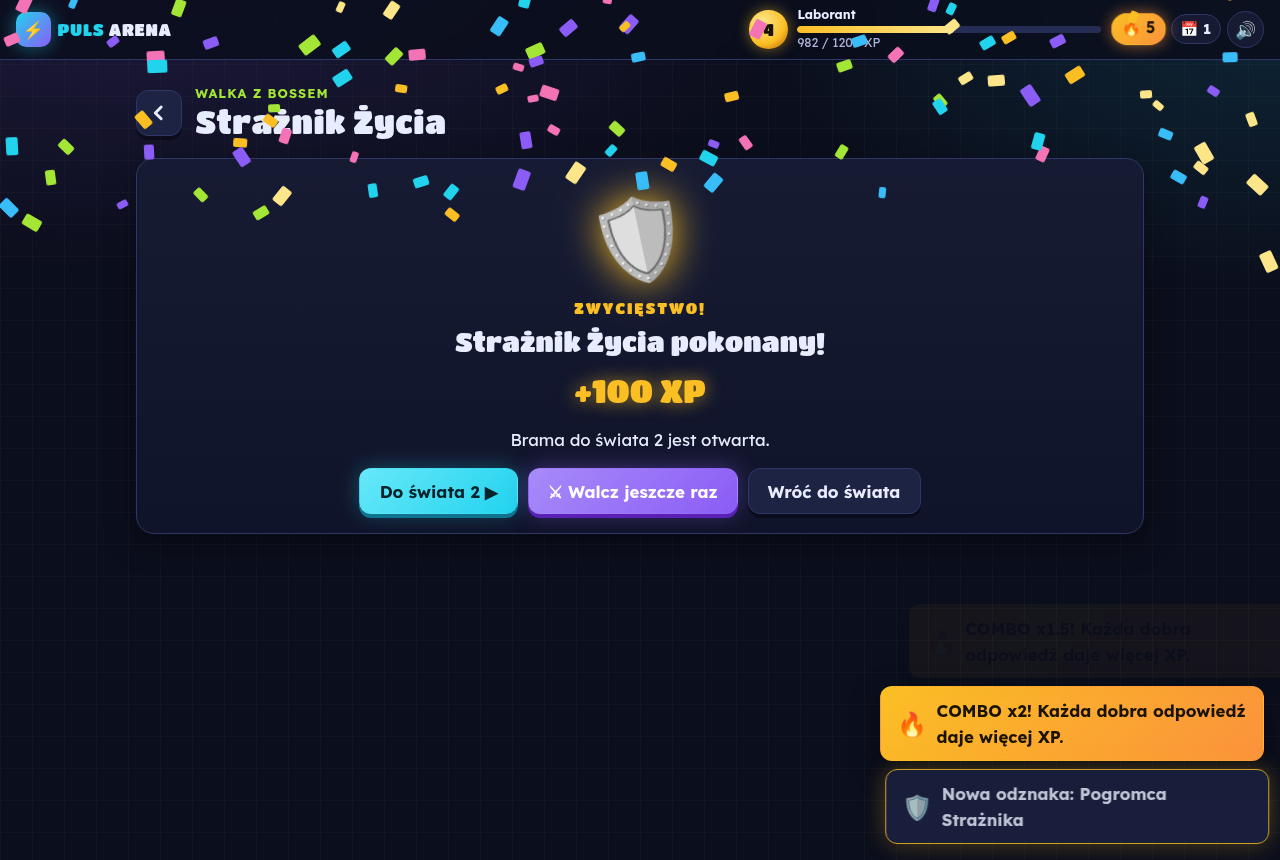
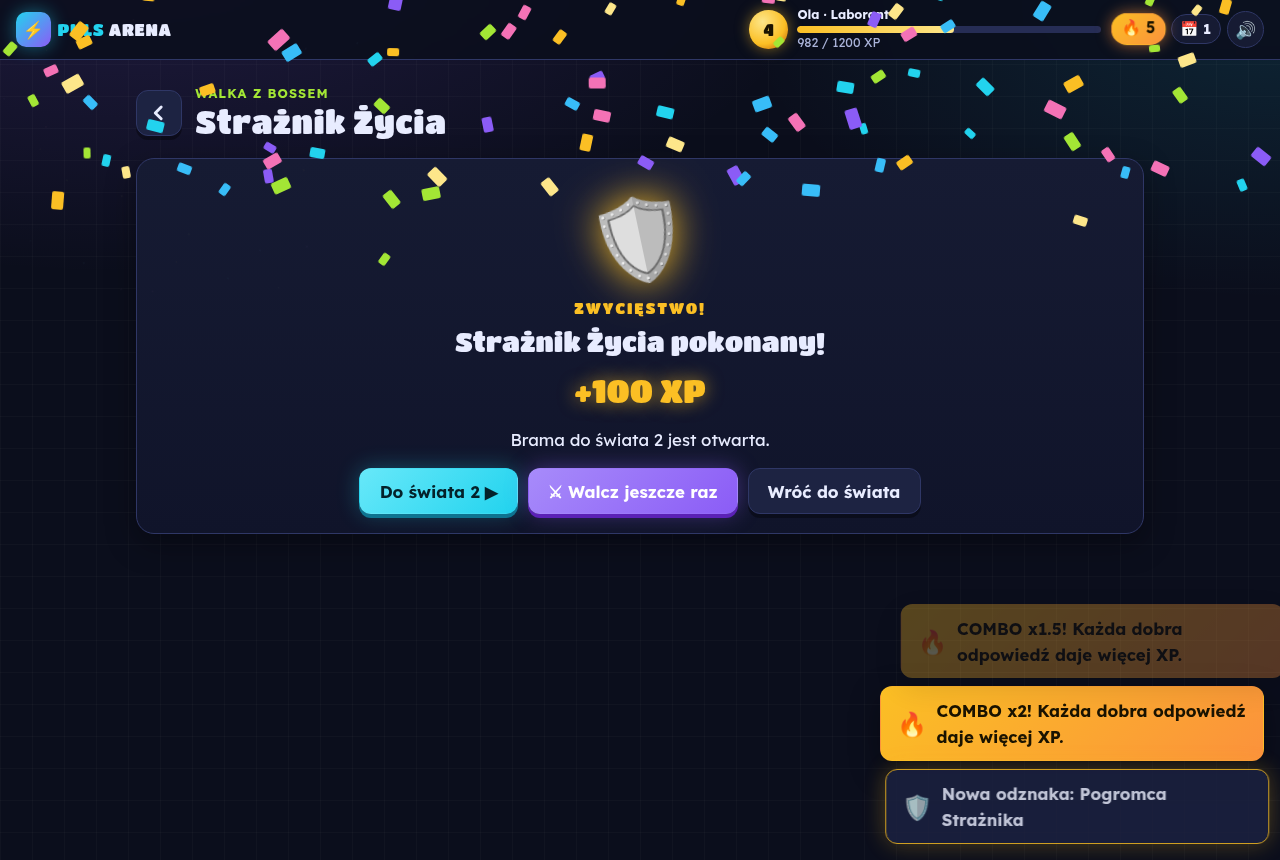
Imię gracza zamiast wpisanego na stałe; neutralne sformułowania; wersja abbe4b2261d7

diff --git a/docs/js/ekrany/imie.js b/docs/js/ekrany/imie.js
@@ -1,0 +1,67 @@
+// Ekran powitalny z pytaniem o imię (pierwsze uruchomienie) i formularz zmiany imienia
+// (profil, panel rodzica). Imię zapisuje się w tym samym zapisie co postępy.
+
+import { h } from '../core/dom.js';
+import { graj } from '../core/dzwieki.js';
+import { MAKS_IMIE, normalizujImie } from '../core/stan.js';
+import { K, odswiezHud, zapisz } from '../kontekst.js';
+
+export function formularzImienia({ przycisk = 'Zapisz', poZapisie, duzy = false, id = 'pole-imienia' } = {}) {
+  const pole = h('input', {
+    id,
+    type: 'text',
+    class: `imie__pole${duzy ? ' imie__pole--duze' : ''}`,
+    maxlength: String(MAKS_IMIE),
+    autocomplete: 'given-name',
+    autocapitalize: 'words',
+    spellcheck: 'false',
+    required: true,
+    placeholder: 'np. Ola, Kuba, Zosia…',
+    value: K.stan.imie || '',
+  });
+  const zatwierdz = h('button', { type: 'submit', class: `przycisk przycisk--glowny${duzy ? ' przycisk--duzy' : ''}` }, przycisk);
+  const info = h('p', { class: 'imie__info', 'aria-live': 'polite' });
+  const aktualizuj = () => {
+    zatwierdz.disabled = normalizujImie(pole.value) === '';
+  };
+  pole.addEventListener('input', aktualizuj);
+  aktualizuj();
+  const form = h('form', { class: 'imie__formularz', novalidate: true }, [
+    h('label', { class: 'imie__etykieta', for: id, tekst: 'Jak masz na imię?' }),
+    h('div', { class: 'imie__wiersz' }, [pole, zatwierdz]),
+    info,
+  ]);
+  form.addEventListener('submit', (e) => {
+    e.preventDefault();
+    const imie = normalizujImie(pole.value);
+    if (!imie) {
+      info.textContent = 'Wpisz swoje imię.';
+      pole.focus();
+      return;
+    }
+    K.stan.imie = imie;
+    zapisz();
+    odswiezHud();
+    graj('odznaka');
+    info.textContent = `Zapisano: ${imie}`;
+    poZapisie?.(imie);
+  });
+  form.pole = pole;
+  return form;
+}
+
+export function ekranImienia({ poZapisie } = {}) {
+  const formularz = formularzImienia({ przycisk: 'Zaczynamy ▶', duzy: true, poZapisie });
+  const el = h('section', { class: 'ekran ekran--imie' }, [
+    h('div', { class: 'imie-ekran karta' }, [
+      h('div', { class: 'imie-ekran__logo', 'aria-hidden': 'true' }, [h('span', { tekst: '⚡' })]),
+      h('p', { class: 'nadtytul', tekst: 'Biologia · klasa 5 · Dział I' }),
+      h('h1', { class: 'tytul tytul--duzy', tabindex: '-1' }, ['Witaj w ', h('span', { class: 'tytul__akcent', tekst: 'Puls Arenie!' })]),
+      h('p', { class: 'imie-ekran__opis', tekst: 'Trzy światy, trzech bossów i próbny sprawdzian z działu „Biologia – nauka o życiu”. Zbieraj XP, nabijaj combo i zdobywaj odznaki.' }),
+      formularz,
+      h('p', { class: 'imie-ekran__uwaga', tekst: 'Imię zapisuje się tylko na tym urządzeniu. Możesz je zmienić w profilu.' }),
+    ]),
+  ]);
+  setTimeout(() => formularz.pole.focus({ preventScroll: true }), 50);
+  return el;
+}

diff --git a/docs/js/ekrany/profil.js b/docs/js/ekrany/profil.js
@@ -3,7 +3,8 @@
 import { h } from '../core/dom.js';
 import { NAZWY_UMIEJETNOSCI, ocenaSzkolna, PROGI, RANGI, raportUmiejetnosci } from '../core/gra.js';
 import { nowyStan } from '../core/stan.js';
-import { K, infoGracza, misjaUmiejetnosci, odswiezHud, ustawDzwiek, zapisz } from '../kontekst.js';
+import { formularzImienia } from './imie.js';
+import { K, imieGracza, infoGracza, misjaUmiejetnosci, odswiezHud, ustawDzwiek, zapisz } from '../kontekst.js';
 import ODZNAKI from '../../data/odznaki.js';
 import SWIATY from '../../data/swiaty.js';
 import ZADANIA from '../../data/zadania.js';
@@ -23,7 +24,7 @@ export function ekranProfilu() {
   const raport = raportUmiejetnosci(stan);
   const znane = new Map(raport.map((r) => [r.klucz, r]));
   return h('section', { class: 'ekran ekran--profil' }, [
-    naglowek('Profil gracza', { nadtytul: 'Mikołaj' }),
+    naglowek('Profil gracza', { nadtytul: imieGracza() }),
     h('div', { class: 'karta profil-poziom' }, [
       h('div', { class: 'profil-poziom__odznaka', tekst: String(g.poziom) }),
       h('div', { class: 'profil-poziom__teksty' }, [
@@ -67,6 +68,8 @@ export function ekranProfilu() {
         ]);
       }),
     ),
+    h('h2', { class: 'sekcja__tytul', tekst: 'Imię gracza' }),
+    h('div', { class: 'karta' }, [formularzImienia({ przycisk: 'Zapisz imię', poZapisie: () => dispatchEvent(new HashChangeEvent('hashchange')) })]),
     h('h2', { class: 'sekcja__tytul', tekst: 'Rangi' }),
     h('ol', { class: 'rangi' }, RANGI.map((r, i) => h('li', { 'data-osiagnieta': String(stan.xp >= PROGI[i]) }, [h('strong', { tekst: `${i + 1}. ${r}` }), ` · od ${PROGI[i]} XP`]))),
   ]);
@@ -88,7 +91,8 @@ export function ekranRodzica() {
           reset.textContent = 'Na pewno? Stuknij jeszcze raz, żeby usunąć postępy';
           return;
         }
-        K.stan = nowyStan();
+        // Imię zostaje, znikają tylko postępy.
+        K.stan = { ...nowyStan(), imie: stan.imie };
         zapisz();
         location.hash = '#/';
       },
@@ -111,6 +115,8 @@ export function ekranRodzica() {
       ]),
       h('div', { class: 'karta rodzic__ustawienia' }, [
         h('h2', { class: 'karta__tytul', tekst: 'Ustawienia' }),
+        h('p', { class: 'etykieta', tekst: `Imię gracza: ${stan.imie || '(jeszcze nie podano)'}` }),
+        formularzImienia({ przycisk: 'Zmień imię', poZapisie: rysuj }),
         przelacznik(stan.ustawienia.dzwiek, 'Dźwięki i wibracje', (v) => ustawDzwiek(v)),
         przelacznik(stan.ustawienia.odblokujWszystko, 'Odblokuj wszystkie światy i bossów (np. powtórka tylko jednego tematu)', (v) => {
           stan.ustawienia.odblokujWszystko = v;

diff --git a/docs/js/main.js b/docs/js/main.js
@@ -4,7 +4,8 @@ import { h, ikona, wyczysc } from './core/dom.js';
 import { ustawDzwieki } from './core/dzwieki.js';
 import { utworzMagazyn } from './core/magazyn.js';
 import { adres, parsujAdres } from './core/router.js';
-import { K, infoGracza, ustawDzwiek, powiadom } from './kontekst.js';
+import { K, imieGracza, infoGracza, ustawDzwiek, powiadom } from './kontekst.js';
+import { ekranImienia } from './ekrany/imie.js';
 import { zarejestrujServiceWorker } from './pwa.js';
 import { ekranMapy } from './ekrany/mapa.js';
 import { ekranSwiata } from './ekrany/swiat.js';
@@ -45,7 +46,7 @@ function hud() {
     logo,
     h('a', { href: '#/profil', class: 'hud__gracz', 'aria-label': `Poziom ${g.poziom}, ${g.ranga}. Profil gracza.` }, [
       h('span', { class: 'hud__poziom', tekst: String(g.poziom) }),
-      h('span', { class: 'hud__opis' }, [h('span', { class: 'hud__ranga', tekst: g.ranga }), pasek, h('span', { class: 'hud__xp', tekst: g.max ? `${K.stan.xp} XP · MAX` : `${K.stan.xp} / ${g.do} XP` })]),
+      h('span', { class: 'hud__opis' }, [h('span', { class: 'hud__ranga', tekst: `${imieGracza()} · ${g.ranga}` }), pasek, h('span', { class: 'hud__xp', tekst: g.max ? `${K.stan.xp} XP · MAX` : `${K.stan.xp} / ${g.do} XP` })]),
     ]),
     h('div', { class: 'hud__liczniki' }, [
       h('span', { class: 'hud__licznik hud__licznik--combo', 'data-aktywne': String(combo >= 3), title: 'Combo: dobre odpowiedzi z rzędu', tekst: `🔥 ${combo}` }),
@@ -94,7 +95,10 @@ function pokaz() {
   document.querySelectorAll('.okno-tlo').forEach((o) => o.remove());
   let wynik;
   try {
-    wynik = (EKRANY[cel.ekran] ?? ekranNieznany)(cel);
+    // Pierwsze uruchomienie (albo stary zapis bez imienia): najpierw pytamy o imię.
+    // Panel rodzica zostaje dostępny zawsze.
+    if (!K.stan.imie && cel.ekran !== 'rodzic') wynik = ekranImienia({ poZapisie: pokaz });
+    else wynik = (EKRANY[cel.ekran] ?? ekranNieznany)(cel);
   } catch (blad) {
     console.error(blad);
     wynik = ekranNieznany();
@@ -103,7 +107,7 @@ function pokaz() {
     glowny.append(wynik.el);
     sprzataj = wynik.sprzataj ?? null;
   } else glowny.append(wynik);
-  document.body.dataset.ekran = cel.ekran;
+  document.body.dataset.ekran = !K.stan.imie && cel.ekran !== 'rodzic' ? 'imie' : cel.ekran;
   hud();
   scrollTo(0, 0);
   glowny.querySelector('h1')?.focus?.({ preventScroll: true });

diff --git a/docs/css/ekrany.css b/docs/css/ekrany.css
@@ -1235,3 +1235,106 @@ a.kafel:hover {
   max-width: 40rem;
   margin: 0 auto;
 }
+
+/* ---------- Imię gracza ---------- */
+
+.imie-ekran {
+  max-width: 38rem;
+  margin: 2.5rem auto;
+  padding: 2rem 1.6rem;
+  text-align: center;
+  background:
+    radial-gradient(420px 200px at 50% 0%, rgba(139, 92, 246, 0.28), transparent 70%),
+    linear-gradient(180deg, var(--panel), var(--tlo-2));
+  box-shadow: var(--cien), var(--poswiata-cyjan);
+  animation: wyskok 0.45s cubic-bezier(0.3, 1.4, 0.5, 1);
+}
+
+.imie-ekran__logo {
+  display: grid;
+  place-items: center;
+  width: 5rem;
+  height: 5rem;
+  margin: 0 auto 1rem;
+  font-size: 2.4rem;
+  background: linear-gradient(135deg, var(--cyjan), var(--fiolet));
+  border-radius: 22px;
+  box-shadow: 0 0 36px rgba(34, 211, 238, 0.5);
+  animation: lewitacja 3s ease-in-out infinite;
+}
+
+.imie-ekran .tytul__akcent {
+  display: inline;
+}
+
+.imie-ekran__opis {
+  margin: 0.8rem auto 1.4rem;
+  color: var(--tekst-2);
+}
+
+.imie-ekran__uwaga {
+  margin: 0.8rem 0 0;
+  font-size: 0.82rem;
+  color: var(--tekst-3);
+}
+
+.imie__formularz {
+  margin: 0;
+}
+
+.imie__etykieta {
+  display: block;
+  margin-bottom: 0.6rem;
+  font-family: var(--font-naglowki);
+  font-size: 1.25rem;
+}
+
+.ekran--profil .imie__etykieta,
+.rodzic__ustawienia .imie__etykieta {
+  font-family: var(--font-tekst);
+  font-size: 1rem;
+  font-weight: 700;
+}
+
+.imie__wiersz {
+  display: flex;
+  flex-wrap: wrap;
+  gap: 0.6rem;
+  justify-content: center;
+}
+
+.ekran--profil .imie__wiersz,
+.rodzic__ustawienia .imie__wiersz {
+  justify-content: flex-start;
+}
+
+.imie__pole {
+  flex: 1 1 12rem;
+  max-width: 20rem;
+  min-height: 2.9rem;
+  padding: 0.5rem 0.9rem;
+  font-weight: 700;
+  background: var(--tlo);
+  border: 2px solid var(--linia);
+  border-radius: var(--promien-maly);
+}
+
+.imie__pole:focus {
+  border-color: var(--cyjan);
+  outline: none;
+  box-shadow: var(--poswiata-cyjan);
+}
+
+.imie__pole--duze {
+  min-height: 3.4rem;
+  font-size: 1.25rem;
+  text-align: center;
+}
+
+.imie__info {
+  min-height: 1.2em;
+  margin: 0.5rem 0 0;
+  font-size: 0.88rem;
+  font-weight: 700;
+  color: var(--limonka);
+}

diff --git a/docs/data/odznaki.js b/docs/data/odznaki.js
@@ -3,7 +3,7 @@ export default [
   { id: 'pierwszy-krok', nazwa: 'Pierwszy krok', opis: 'Ukończ pierwszą misję.', ikona: '👣' },
   { id: 'bez-bledu', nazwa: 'Czysta robota', opis: 'Ukończ misję bez żadnego błędu.', ikona: '✨' },
   { id: 'combo-5', nazwa: 'Combo x5', opis: 'Pięć dobrych odpowiedzi z rzędu.', ikona: '🔥' },
-  { id: 'combo-10', nazwa: 'Niepowstrzymany', opis: 'Dziesięć dobrych odpowiedzi z rzędu.', ikona: '⚡' },
+  { id: 'combo-10', nazwa: 'Nie do zatrzymania', opis: 'Dziesięć dobrych odpowiedzi z rzędu.', ikona: '⚡' },
   { id: 'boss-1', nazwa: 'Pogromca Strażnika', opis: 'Pokonaj Strażnika Życia.', ikona: '🛡' },
   { id: 'boss-2', nazwa: 'Pogromca Chaosu', opis: 'Pokonaj Profesora Chaosa.', ikona: '🌀' },
   { id: 'boss-3', nazwa: 'Ostre oko', opis: 'Pokonaj Kapitana Rozmazanego.', ikona: '🔬' },
@@ -12,7 +12,7 @@ export default [
   { id: 'arena-20', nazwa: 'Błyskawica', opis: 'Zdobądź 20 punktów w Arenie błyskawicznej.', ikona: '🌩' },
   { id: 'kalkulator', nazwa: 'Kalkulator powiększeń', opis: 'Policz bez błędu 10 powiększeń w treningu.', ikona: '🧮' },
   { id: 'fiszki', nazwa: 'Mistrz fiszek', opis: 'Przenieś 15 fiszek do pudełka „Umiem na pewno”.', ikona: '🃏' },
-  { id: 'sprawdzian-db', nazwa: 'Gotowy na sprawdzian', opis: 'Zdobądź co najmniej 75% w próbnym sprawdzianie.', ikona: '🎓' },
+  { id: 'sprawdzian-db', nazwa: 'Gotowość na sprawdzian', opis: 'Zdobądź co najmniej 75% w próbnym sprawdzianie.', ikona: '🎓' },
   { id: 'sprawdzian-max', nazwa: 'Szóstka!', opis: 'Zdobądź 100% w próbnym sprawdzianie.', ikona: '🏆' },
   { id: 'seria-3', nazwa: 'Trzy dni nauki', opis: 'Graj trzy różne dni.', ikona: '📅' },
 ];

diff --git a/docs/js/ekrany/mapa.js b/docs/js/ekrany/mapa.js
@@ -2,7 +2,7 @@
 
 import { h } from '../core/dom.js';
 import { bossOdblokowany, misjeUkonczone, swiatOdblokowany } from '../core/gra.js';
-import { K, infoGracza } from '../kontekst.js';
+import { K, imieGracza, infoGracza } from '../kontekst.js';
 import SWIATY from '../../data/swiaty.js';
 import { gwiazdki, kafel, pasekPostepu } from './wspolne.js';
 
@@ -63,7 +63,7 @@ export function ekranMapy() {
     h('div', { class: 'baner' }, [
       h('div', { class: 'baner__teksty' }, [
         h('p', { class: 'nadtytul', tekst: 'Biologia · klasa 5 · Dział I „Biologia – nauka o życiu”' }),
-        h('h1', { class: 'tytul tytul--duzy', tabindex: '-1' }, ['Cześć, Mikołaj! ', h('span', { class: 'tytul__akcent', tekst: 'Gotowy na misję?' })]),
+        h('h1', { class: 'tytul tytul--duzy', tabindex: '-1' }, [`Cześć, ${imieGracza({ wolacz: true })}! `, h('span', { class: 'tytul__akcent', tekst: 'Czas na misję!' })]),
         h('p', { class: 'baner__opis', tekst: `Poziom ${g.poziom} · ${g.ranga}. Przejdź trzy światy, pokonaj bossów i zdaj próbny sprawdzian.` }),
         h('a', { href: krok.href, class: 'przycisk przycisk--glowny przycisk--duzy' }, [h('span', { tekst: '▶ ' }), krok.tekst]),
         h('p', { class: 'baner__podpis', tekst: krok.opis }),

diff --git a/docs/js/core/stan.js b/docs/js/core/stan.js
@@ -5,6 +5,7 @@ export const WERSJA_STANU = 1;
 export function nowyStan() {
   return {
     wersja: WERSJA_STANU,
+    imie: '', // imię gracza (pytamy przy pierwszym uruchomieniu)
     xp: 0,
     combo: 0,
     maxCombo: 0,
@@ -34,6 +35,7 @@ function obiekt(v) {
 export function odczytajStan(dane) {
   if (!dane || typeof dane !== 'object' || Array.isArray(dane)) throw new Error('zły format');
   const s = nowyStan();
+  s.imie = normalizujImie(dane.imie);
   s.xp = liczba(dane.xp);
   s.combo = 0; // combo nie przechodzi między sesjami
   s.maxCombo = liczba(dane.maxCombo);
@@ -49,6 +51,22 @@ export function odczytajStan(dane) {
   s.powiekszenia = { ...s.powiekszenia, ...obiekt(dane.powiekszenia) };
   s.ustawienia = { ...s.ustawienia, ...obiekt(dane.ustawienia) };
   return s;
+}
+
+export const MAKS_IMIE = 20;
+
+// Imię gracza: bez znaków sterujących i nadmiarowych spacji, najwyżej 20 znaków.
+export function normalizujImie(tekst) {
+  if (typeof tekst !== 'string') return '';
+  return Array.from(
+    tekst
+      .replace(/[\u0000-\u001f\u007f-\u009f\u200b-\u200f\u2028-\u202e]/g, '')
+      .replace(/\s+/g, ' ')
+      .trim(),
+  )
+    .slice(0, MAKS_IMIE)
+    .join('')
+    .trim();
 }
 
 export function dzisiaj(data = new Date()) {

diff --git a/tests/gra.test.js b/tests/gra.test.js
@@ -86,3 +86,17 @@ test('odczyt stanu uzupełnia braki i odrzuca zły format', () => {
   assert.throws(() => odczytajStan([]));
   assert.throws(() => odczytajStan(null));
 });
+
+test('imię gracza: normalizacja, limit 20 znaków, stary zapis bez imienia', async () => {
+  const { normalizujImie } = await import('../docs/js/core/stan.js');
+  assert.equal(normalizujImie('  Ola  '), 'Ola');
+  assert.equal(normalizujImie('Anna   Maria'), 'Anna Maria');
+  assert.equal(normalizujImie('\u0000Kuba\u200b'), 'Kuba');
+  assert.equal(normalizujImie('Zbigniew-Bartłomiej-Konstanty'), 'Zbigniew-Bartłomiej-');
+  assert.equal(Array.from(normalizujImie('🦊'.repeat(30))).length, 20);
+  assert.equal(normalizujImie('   '), '');
+  assert.equal(normalizujImie(42), '');
+  assert.equal(nowyStan().imie, '');
+  assert.equal(odczytajStan({ xp: 10 }).imie, '', 'stary zapis bez imienia → pytamy o imię');
+  assert.equal(odczytajStan({ imie: ' Zosia ' }).imie, 'Zosia');
+});

diff --git a/docs/js/ekrany/sprawdzian.js b/docs/js/ekrany/sprawdzian.js
@@ -80,7 +80,7 @@ export function ekranSprawdzianu() {
               h('h2', { class: 'karta__tytul', tekst: '🎯 Do powtórki przed sprawdzianem' }),
               h('ul', { class: 'raport__lista' }, misjeDoPowtorki.map((m) => h('li', {}, [h('a', { href: `#/swiat/${m.swiat}/misja/${m.id}`, class: 'link', tekst: `Świat ${m.swiat}: ${nazwaMisji(m)}` })]))),
             ])
-          : h('div', { class: 'karta raport' }, [h('h2', { class: 'karta__tytul', tekst: '🏆 Komplet punktów! Jesteś gotowy.' })]),
+          : h('div', { class: 'karta raport' }, [h('h2', { class: 'karta__tytul', tekst: '🏆 Komplet punktów! Ze sprawdzianem nie będzie problemu.' })]),
         h('h2', { class: 'sekcja__tytul', tekst: 'Zadanie po zadaniu' }),
         h(
           'ol',

diff --git a/docs/data/zadania.js b/docs/data/zadania.js
@@ -684,7 +684,7 @@ export default [
   },
   {
     id: 't3-pow-wybor', temat: 3, typ: 'wybor', umiejetnosc: 'powiekszenie',
-    tresc: 'Okular powiększa 10 razy, a obiektyw 40 razy. Mikołaj policzył 10 + 40 = 50. Jakie jest prawidłowe powiększenie?',
+    tresc: 'Okular powiększa 10 razy, a obiektyw 40 razy. Ktoś z klasy policzył 10 + 40 = 50. Jakie jest prawidłowe powiększenie?',
     opcje: ['400 razy', '50 razy', '4 razy', '30 razy'],
     poprawna: 0,
     wyjasnienie: 'Powiększenia mnożymy: 10 × 40 = 400. Dodawanie to najczęstsza pułapka na sprawdzianie.',

diff --git a/docs/js/ekrany/boss.js b/docs/js/ekrany/boss.js
@@ -81,7 +81,7 @@ export function ekranBossa({ swiat: nr, hardcore = false }) {
           tekst: wygrana
             ? nr < 3
               ? hardcore
-                ? 'Wygrana w trybie hardcore. Prawdziwy mistrz!'
+                ? 'Wygrana w trybie hardcore. Mistrzowski wynik!'
                 : `Brama do świata ${nr + 1} jest otwarta.`
               : 'Wszystkie światy zaliczone. Czas na próbny sprawdzian!'
             : 'Przeczytaj wyjaśnienia, powtórz misje i spróbuj ponownie. Zadania zostaną wylosowane od nowa.',

diff --git a/docs/sw.js b/docs/sw.js
@@ -2,7 +2,7 @@
 // WERSJA i PLIKI uzupełnia narzędzie: node tools/wersja.js (nie edytować ręcznie).
 // Każda zmiana w docs/ zmienia WERSJA, więc przeglądarka pobiera nową wersję gry.
 
-const WERSJA = '05330542690a';
+const WERSJA = 'abbe4b2261d7';
 const PLIKI = [
   './',
   'assets/fonts/OFL-lexend.txt',
@@ -44,6 +44,7 @@ const PLIKI = [
   'js/core/zadania-logika.js',
   'js/ekrany/arena.js',
   'js/ekrany/boss.js',
+  'js/ekrany/imie.js',
   'js/ekrany/mapa.js',
   'js/ekrany/misja.js',
   'js/ekrany/powtorka.js',
